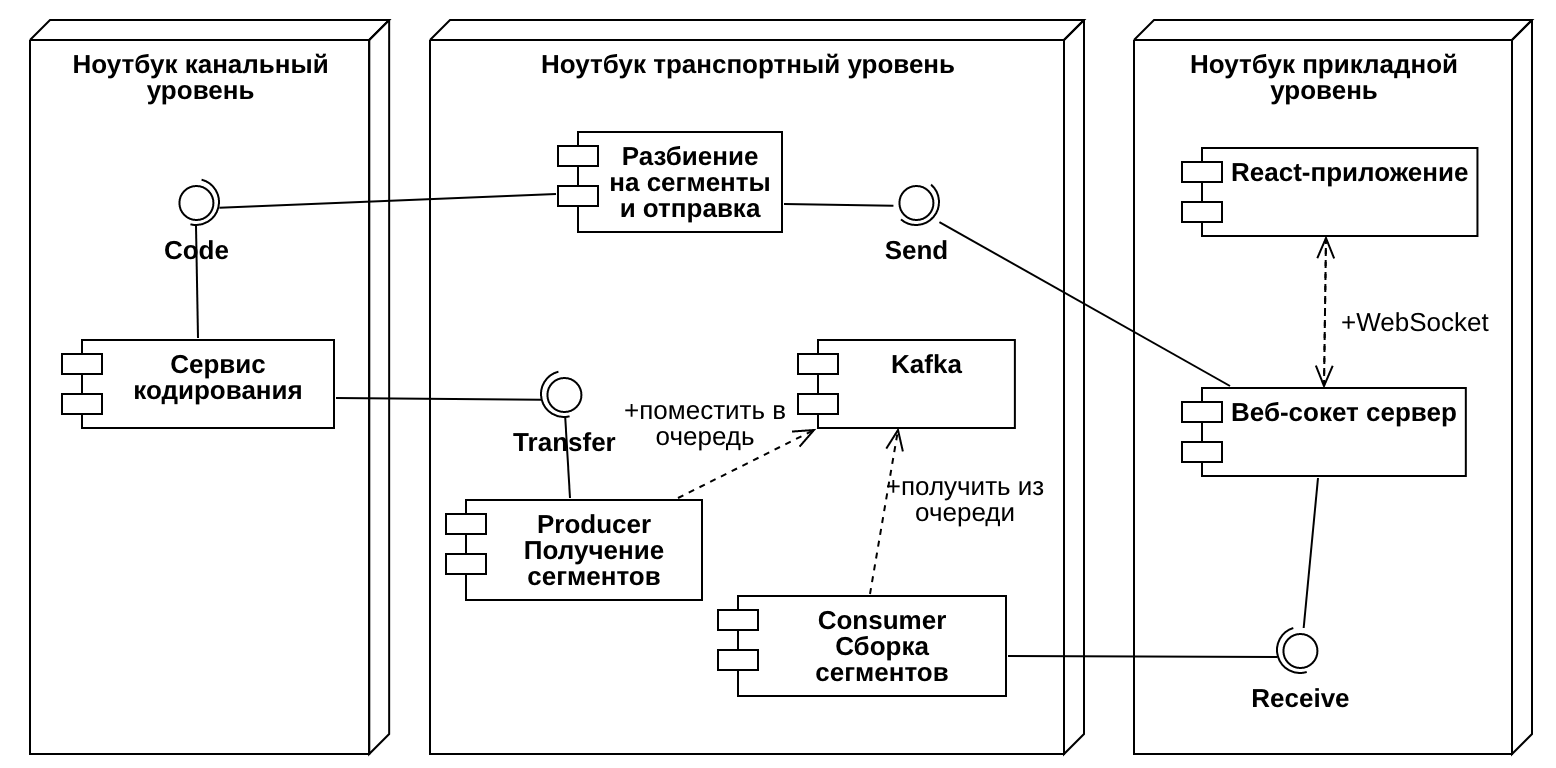
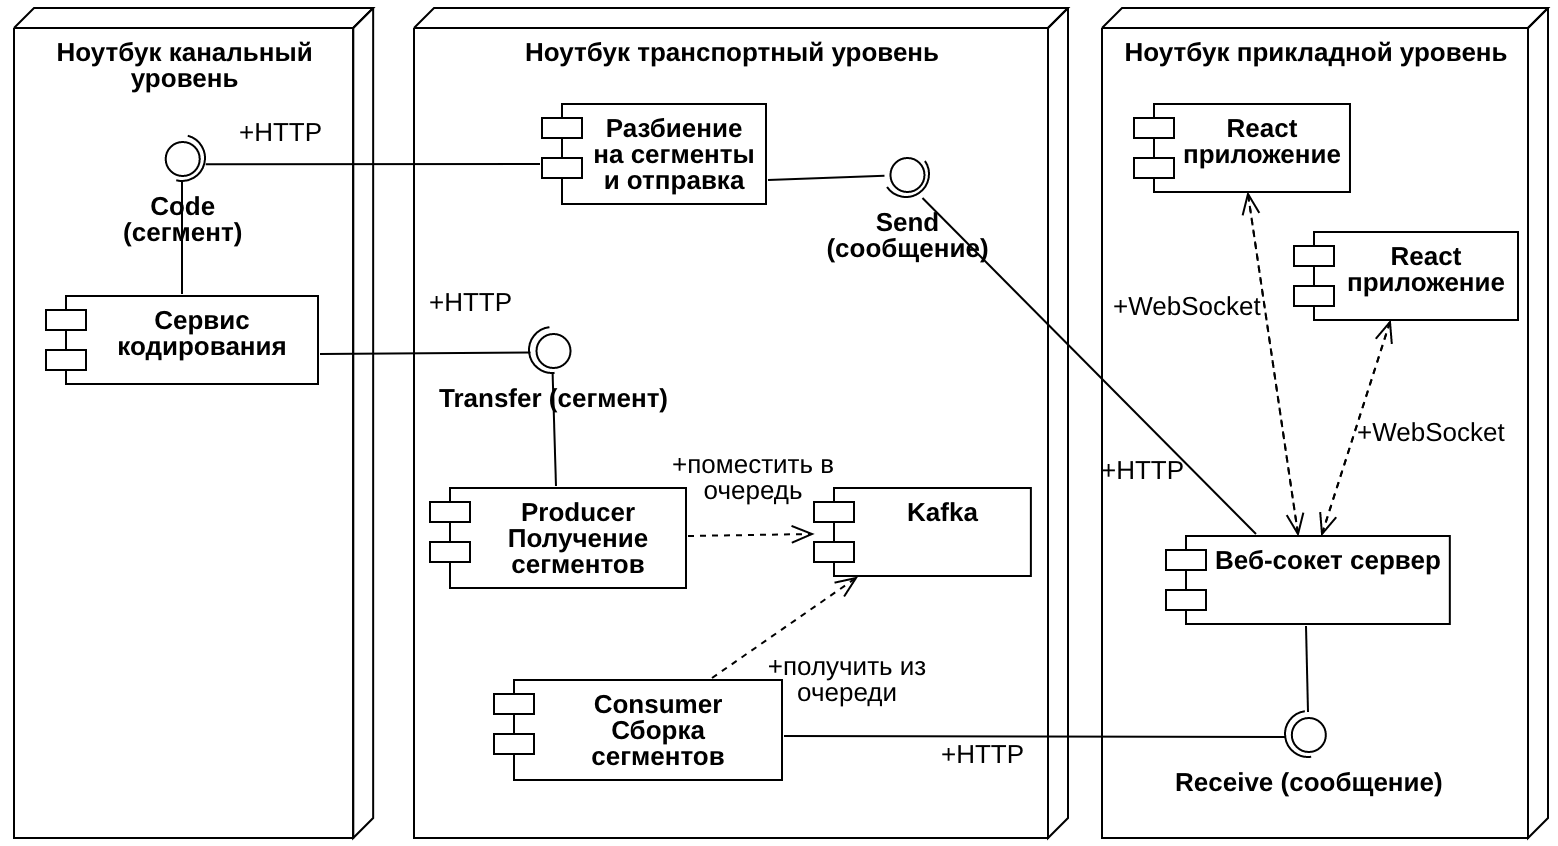
comments

diff --git a/README.md b/README.md
@@ -66,7 +66,7 @@
 
 
 
-### Тема
+### Задание
 
 Необходимо разработать систему обмена текстовыми сообщениями/файлами в реальном времени, состояющую из трех уровней: прикладной, транспортный и канальный. Каждый из уровней реализуется отдельным веб-сервисом.
 
@@ -87,18 +87,20 @@
 
 Текстовые сообщения или файлы разбиваются на сегменты по X байт и отправляются отдельными сегментами на канальный уровень. 
 
-При получении сегменты помещаются в очередь, раз в N секунд собираются в единое сообщение и передаются на прикладной уровень. Если часть из сегментов не была принята, то на прикладной уровень итоговое сообщение передается с признаком ошибки.
+При получении сегменты помещаются в очередь, раз в N секунд собираются в единое сообщение и передаются на прикладной уровень. Если часть из сегментов не была принята (1-3 цикла не было новых сегментов по этому сообщению), то на прикладной уровень итоговое сообщение передается с признаком ошибки.
 
-Каждый пакет-сегмент представляет собой полезную нагрузку, времени отправки (как id), общую длину сообщения (количество сегментов), номер данного сегмента в сообщении.
+Каждый пакет-сегмент представляет собой полезную нагрузку, времени отправки (как id сообщения), общую длину сообщения (количество сегментов), номер данного сегмента в сообщении.
 
 - [Ролик про межсервисное взаимодействие и очереди](https://www.youtube.com/watch?v=zdKziDsFjvg)
 - [Пример установки Kafka через wsl и использования в Python](/kafka_wsl) 
 
 #### Канальный уровень
 
-Данный уровень эмитирует взаимодействие с удаленным сетевым узлом через канал с помехами. Для этого используется один из четырех вариантов кодирования передаваемых сообщений. Полученный от транспортного уровня json сегмента кодируется в битовый формат соответствующим кодом, вносятся ошибки и затем декодируется для последующей отправки обратно на транспортный уровень.
+Данный уровень эмитирует взаимодействие с удаленным сетевым узлом через канал с помехами. Для этого используется один из четырех вариантов кодирования передаваемых сообщений. Полученный от транспортного уровня json сегмента кодируется в битовый формат соответствующим кодом, вносятся ошибки и затем декодируется для последующей отправки обратно на транспортный уровень. Ошибка вносится в 1 случайный бит сегмента.
 
 Сервис должен вносить ошибку с вероятностью P в передаваемую информацию и терять сообщения с вероятностью R. При декодировании либо пакет с ошибкой теряется, либо передается обратно на транспортный после исправления.
+
+Пример: от транспортного уровня пришел сегмент 1000 бит, на канальном они кодируются [7，4] в кадр 1750 бит, в которые вносится ошибка, затем они снова декодируются в 1000 бит и передаются обратно на транспортный уровень в виде сегмента.
 
 - [Пример реализации Циклического кода](https://github.com/DESOLATE17/NetworkingHomework)
 - [Пример реализации кода Хемминга](https://github.com/cantylv/homework-bmstu-2023-HammingCode)
